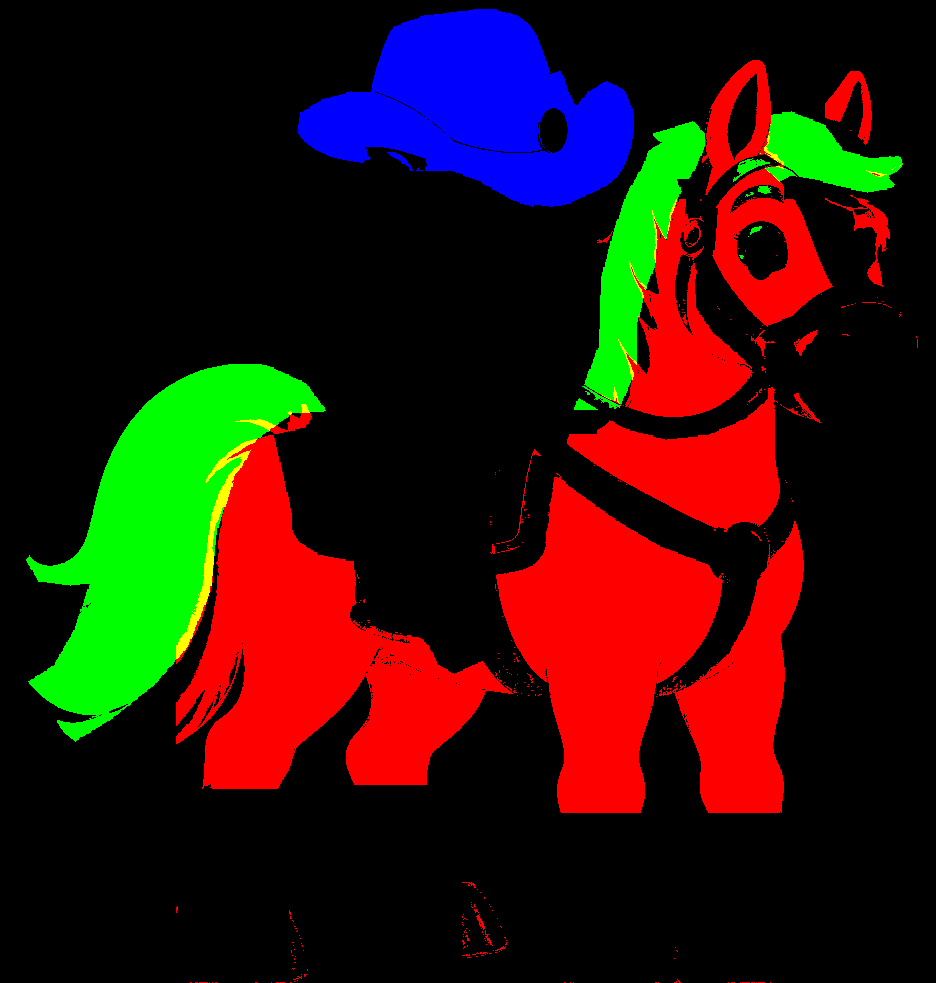
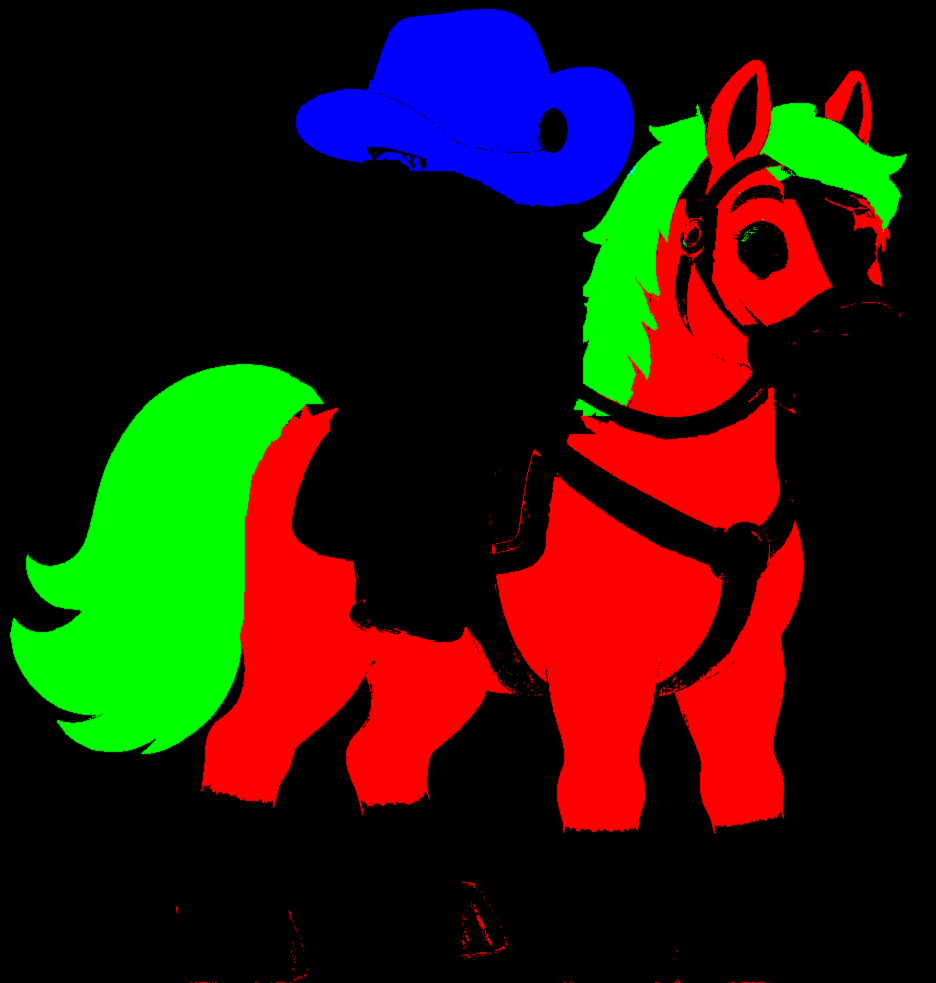
Prepare 0.21.39 selected-horse APK checkpoint with partial HD masks

diff --git a/tools/cosmetics/build_hd_portrait.py b/tools/cosmetics/build_hd_portrait.py
@@ -27,15 +27,57 @@ coat &= ~((((x-890)/13)**2+((y-217)/22)**2<1)|(((x-975)/9)**2+((y-216)/22)**2<1)
 coat &= ~region([[(395,674),(480,674),(490,838),(390,838)],[(539,671),(625,671),(633,838),(535,838)],[(701,695),(802,695),(817,838),(695,838)],[(832,695),(954,695),(970,838),(827,838)],[(474,371),(501,365),(519,337),(536,303),(560,283),(589,283),(614,299),(640,300),(663,326),(676,346),(672,374),(662,404),(655,435),(655,470),(662,503),(668,535),(652,564),(628,575),(612,566),(602,546),(583,534),(567,533),(553,521),(550,500),(549,480),(530,477),(512,473),(496,462),(490,440),(484,413)]])
 coat |= region([[(560,531),(582,539),(606,551),(615,569),(603,579),(581,567),(566,553)]])&(H>=10)&(H<=17)&(S>125)
 coat &= ~((y>742)&(x>530)&(x<635))
-mane_region=region([[(247,611),(261,584),(286,568),(303,539),(317,498),(300,500),(273,496),(262,478),(285,451),(300,409),(327,361),(365,330),(416,309),(466,311),(501,327),(519,351),(489,353),(459,375),(439,411),(425,452),(419,505),(400,552),(371,585),(336,613),(302,634),(271,642),(253,632)],[(731,349),(752,295),(754,237),(765,196),(776,165),(791,139),(798,114),(832,103),(845,117),(835,141),(819,168),(808,205),(792,244),(784,277),(784,314),(768,350)],[(886,99),(916,95),(944,106),(960,128),(984,135),(1008,132),(1013,145),(1002,160),(981,164),(959,159),(937,153),(916,149),(901,158),(897,183),(879,214),(864,231),(869,203),(872,181),(862,168)]])
-mane=mane_region&(S<150)&(V>70)&~region([[(819,153),(858,151),(884,185),(875,218),(841,213)]])
+# Reclaim hide shadows beside the tack without painting the leather itself.
+extra_hide=region([[(432,356),(457,350),(481,357),(490,371),(471,395),(448,426),(433,466),(419,493),(410,483),(418,430)],[(568,534),(597,542),(617,559),(631,566),(641,580),(630,595),(606,590),(586,575),(569,552)],[(735,352),(771,367),(809,377),(848,373),(865,363),(859,381),(832,389),(799,388),(767,379),(741,365)],[(852,207),(862,216),(867,248),(879,266),(887,276),(875,278),(860,262),(849,239)]])
+coat |= extra_hide&(H>=7)&(H<=25)&(S>100)&(V>40)
+mane_region=region([[(248,470),(270,479),(294,475),(306,459),(317,430),(330,394),(355,361),(384,337),(417,320),(454,312),(482,317),(507,331),(517,344),(501,345),(487,358),(469,380),(455,406),(449,444),(449,484),(448,528),(438,563),(420,590),(394,611),(367,627),(335,641),(309,642),(286,636),(276,626),(297,625),(302,620),(281,617),(258,603),(248,582),(244,557),(246,530),(251,538),(267,542),(283,540),(299,529),(304,518),(285,518),(268,509),(254,493)],[(731,349),(752,295),(754,237),(765,196),(776,165),(791,139),(798,114),(832,103),(845,117),(835,141),(819,168),(808,205),(792,244),(784,277),(784,314),(768,350)],[(886,99),(916,95),(944,106),(960,128),(984,135),(1008,132),(1013,145),(1002,160),(981,164),(959,159),(937,153),(916,149),(901,158),(897,183),(879,214),(864,231),(869,203),(872,181),(862,168)]])
+mane=mane_region&(V>40)&((x<540)|((H>=15)&(S<180)))&~region([[(819,153),(858,151),(884,185),(875,218),(841,213)]])
+# Reclaim narrow hide at saddle seam, excluding blanket blue/red/gold.
+coat |= ((x>425)&(x<510)&(y>320)&(y<410)&(H>=9)&(H<=18)&(S>170)&(V>50))
+# Fine tail shadows extend beyond the cream silhouette; hue/saturation separate them from hide.
+mane |= ((x>240)&(x<480)&(y>300)&(y<650)&(H>=14)&(H<=25)&(S<180)&(V>40)&(a[:,:,3]>100))
+coat &= ~mane
+coat |= region([[(550,538),(574,544),(597,545),(612,540),(619,547),(630,570),(648,589),(641,601),(615,594),(589,581),(564,562)]])&(H>=9)&(H<=19)&(S>150)&(V>40)
+coat |= region([[(540,535),(570,546),(595,548),(615,540),(623,558),(635,577),(655,586),(653,603),(620,595),(589,582),(560,564)]])&(H>=8)&(H<=19)&(S>145)&(V>40)
+coat |= region([[(843,218),(845,244),(855,263),(875,283),(883,297),(875,293),(854,276),(840,254),(837,234)]])&(H>=10)&(H<=19)&(S>180)&(V>40)
+# Hide below boot and beside blanket, after all earlier equipment exclusions.
+coat |= region([[(541,540),(569,549),(597,551),(620,542),(632,564),(648,581),(663,590),(662,602),(630,596),(594,584),(563,565)]])&(H>=7)&(H<=22)&(S>140)&(V>38)
+coat |= region([[(455,380),(476,367),(492,358),(508,350),(499,384),(481,421),(470,438),(452,421)]])&(H>=8)&(H<=20)&(S>175)&(V>40)
+coat |= region([[(620,541),(638,536),(649,549),(663,576),(671,596),(651,599),(631,579)]])&(H>=7)&(H<=22)&(S>155)&(V>38)
+coat |= region([[(510,341),(503,366),(483,401),(469,434),(466,448),(477,463),(497,471),(495,480),(468,473),(454,451),(457,412),(478,373),(497,345)]])&(H>=8)&(H<=20)&(S>170)&(V>40)
+coat |= ((x>480)&(x<500)&(y>395)&(y<445)&(H>=9)&(H<=17)&(S>165)&(V>40))
+coat |= ((x>489)&(x<522)&(y>336)&(y<372)&(H>=9)&(H<=17)&(S>165)&(V>40))
+# Keep blanket gold piping: it is brighter and less saturated than hide.
+coat &= ~((x>470)&(x<535)&(y>375)&(y<475)&(H>18)&(S<215))
+# Sock transitions follow the actual cream pixels, not a horizontal cutoff.
+coat |= region([[(410,660),(478,660),(479,720),(405,720)],[(537,655),(622,655),(625,718),(539,718)],[(706,680),(798,680),(800,739),(706,739)],[(840,678),(933,678),(938,735),(840,735)]])&(H>=7)&(H<=23)&(S>120)&(V>45)
+# Fine hide-only seams preserve the neighboring bridle and blanket.
+coat |= region([[(497,333),(520,334),(519,349),(504,351),(499,367),(490,369)]])&(H>=9)&(H<=18)&(S>160)&(V>45)
+coat |= region([[(840,238),(849,257),(866,276),(883,290),(884,298),(872,290),(853,274),(840,255)]])&(H>=9)&(H<=18)&(S>170)&(V>45)
+coat |= region([[(507,338),(527,335),(530,347),(520,360),(513,386),(503,389),(501,369)]])&(H>=8)&(H<=20)&(S>170)&(V>40)
+coat |= ((x>833)&(x<893)&(y>232)&(y<316)&(H>=10)&(H<=19)&(S>185)&(V>45))
+# Hair slivers below the fringe and around neck stay hair, not coat.
+head_hair=region([[(789,99),(836,89),(848,126),(820,167),(809,206),(795,243),(786,282),(783,319),(771,351),(753,342),(753,296),(762,245),(771,192)],[(892,88),(932,88),(973,109),(1018,124),(1024,152),(1011,160),(1005,181),(994,198),(989,201),(988,179),(980,168),(965,162),(946,157),(929,149),(908,140),(902,159),(898,180),(883,202),(862,213),(867,180)]])
+mane |= head_hair&(H>=14)&(S<170)&(V>90)
+mane |= ((x>738)&(x<837)&(y>100)&(y<355)&(H>=14)&(S<145)&(V>95))
+mane &= ~region([[(975,177),(987,185),(994,195),(992,213),(982,213),(977,201)]])
+coat &= ~mane
+coat &= ~(((x-891)/13)**2+((y-299)/20)**2<1)
+coat &= ~((x>919)&(y>286)&(x<1028)&(y<378))
 hat_region=region([[(494,114),(497,96),(515,85),(539,78),(557,79),(563,43),(577,22),(605,12),(657,6),(683,13),(704,24),(715,48),(725,77),(732,91),(743,78),(758,69),(773,76),(781,95),(784,119),(778,142),(758,158),(727,173),(704,179),(679,171),(649,154),(625,145),(590,146),(555,141),(523,134),(505,125)]])
-hat=hat_region&(S>65)&(V>45)&~region([[(551,138),(570,130),(589,143),(595,160),(564,160)]])
+hat=hat_region&(V>35)&~region([[(551,138),(570,130),(589,143),(595,160),(564,160)]])
+hat |= region([[(718,96),(730,85),(745,74),(759,69),(771,76),(780,95),(782,115),(770,123),(747,116)],[(493,114),(502,103),(521,99),(547,101),(569,109),(571,120),(539,116),(513,116),(499,121)]])&(S>60)&(V>35)
+hat |= region([[(708,46),(733,50),(760,53),(780,65),(789,86),(788,114),(772,130),(745,118),(726,90)]])&(S>60)&(V>35)
+hat_dilated=np.array(Image.fromarray(hat.astype('uint8')*255).filter(ImageFilter.MaxFilter(9)))>0
+hat |= hat_dilated&(y<136)&(H>=6)&(H<=25)&(S>70)&(V>35)
+hat |= hat_dilated&(y>=136)&(y<174)&(x>680)&(H>=6)&(H<=25)&(S>70)&(V>45)
+coat &= ~region([[(924,284),(943,283),(958,286),(968,296),(972,312),(958,324),(940,317),(926,303)]])
 # Gold badge is equipment detail, not hat material.
 hat &= ~(((x-713)/12)**2+((y-111)/19)**2<1)
+# Feather only subpixel edges, preserving separate material channels.
 mask=np.zeros((h,w,3),dtype=np.uint8);mask[:,:,0][coat]=255;mask[:,:,1][mane]=255;mask[:,:,2][hat]=255;mask[a[:,:,3]<8]=0
 # Source contains extraction flecks beyond the figure. Fixed reviewed framing.
 bbox=(round(240*w/1313),0,round(1040*w/1313),round(840*h/875))
 alpha=im.getchannel('A').filter(ImageFilter.MinFilter(3)).filter(ImageFilter.GaussianBlur(.45));im.putalpha(alpha)
-im.crop(bbox).save(R/'art/portraits/adult_hd.png');Image.fromarray(mask).crop(bbox).save(R/'art/portraits/adult_hd_mask.png')
+im.crop(bbox).save(R/'art/portraits/adult_hd.png');Image.fromarray(mask).filter(ImageFilter.GaussianBlur(.55)).crop(bbox).save(R/'art/portraits/adult_hd_mask.png')
 preview=a.copy();sel=np.max(mask,axis=2)>0;preview[:,:,:3][sel]=mask[sel];Image.fromarray(preview).save('/downloads/hd-mask-review.png')

diff --git a/docs/QA-0.21.39.md b/docs/QA-0.21.39.md
@@ -1,0 +1,18 @@
+# Rancho Prueba 0.21.39
+
+Requested APK checkpoint, not a final art sign-off. Separate branch, no merge to main.
+
+Included:
+- Soft foal rainbow palette for adult gameplay sprites and selected horse portraits.
+- Adult tail/sock mask separation and organic foal rump-tail boundary.
+- Repeated random pairs in isolated trial, including after breeding; real collection and save preserved.
+- Last selected horse and hat shown on menu return and after a new process starts.
+- Hidden-face HD adult in menu, horse collection and hat previews. Source art preserved.
+- Equipped whip named in text. No invented whip illustration.
+- Compact corral latch separation correction for levels 11-14 only, retaining groups and gates.
+
+Checks: 40 directed tests / 26,220 assertions pass. ScreenTouch map/double-tap tests run graphically. Repeated Add2 touch input after breeding, long-list scroll and save-byte restoration pass. Two independent processes verify selected horse, hat and functional whip state. Geometry latch opening rendered and tested at levels 11-14; capture/tow delivery tests also pass.
+
+Caveats: HD portrait masks remain a partial visual trial. Fine edge remnants around fringe, bridle, hat and socks may remain. No claim of complete pixel cleanup. Whip is text-only in portrait view. List rebuilding still emits can_process warnings and some review scripts report ObjectDB exit leaks. Not a clean global suite, not tested on physical Android. Desktop touch tests do not certify phone performance or touch sizing. No new gallop, powers, genetics, maps or balance rules.
+
+Android: com.example.rancho.review; versionCode 249; versionName 0.21.39. Same signing certificate as 0.21.38, alignment checked at 16KB. Update without uninstalling to retain data.
